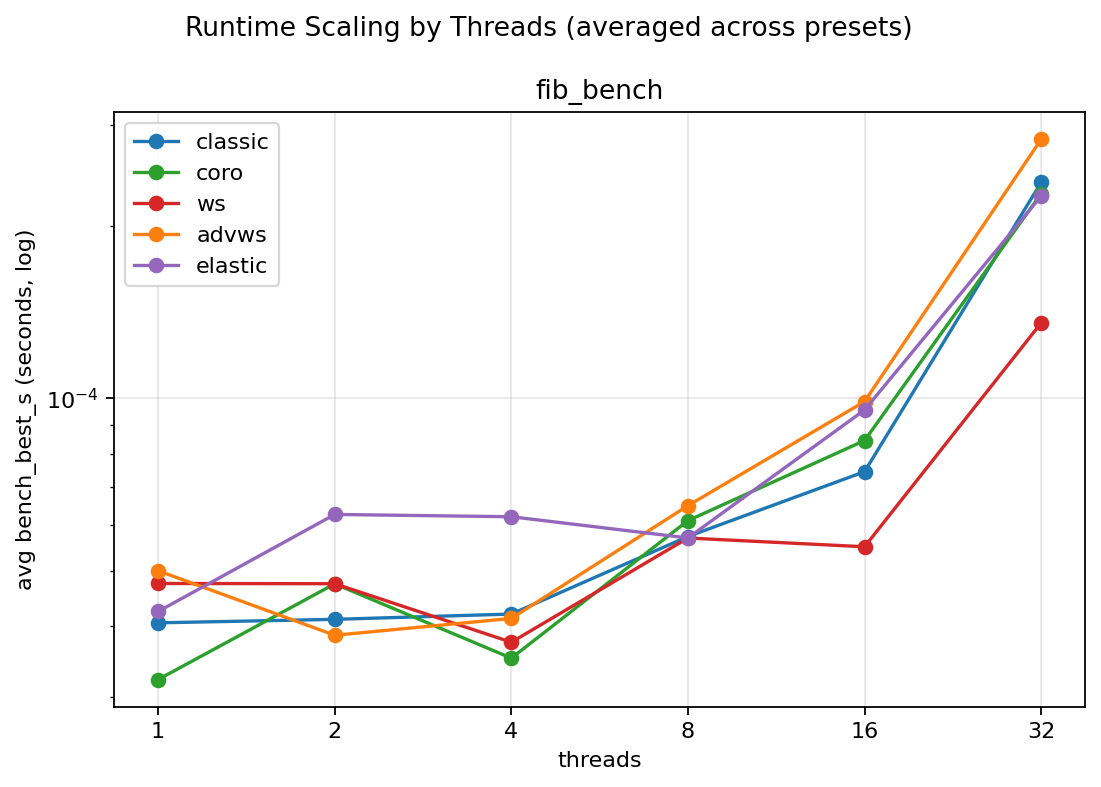
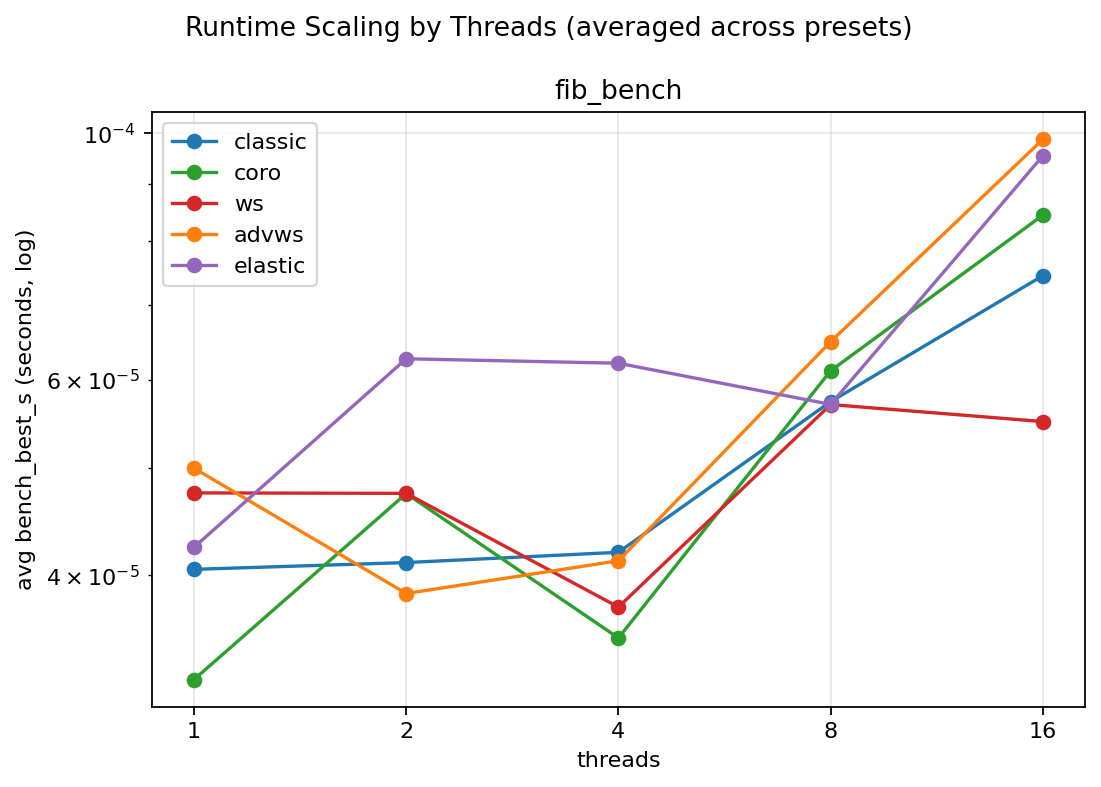
removed 32 threads

diff --git a/results/fib_perf_20260303_000544/analysis_report.md b/results/fib_perf_20260303_000544/analysis_report.md
@@ -1,26 +1,19 @@
 # Fib Summary Analysis
 
 
-Source: `results\fib_perf_20260303_000544\summary.csv`
+Source: `results\fib_perf_20260303_000544\summary_no32.csv`
 
-Rows: 270; valid rows (bench_best_s>0): 269; scenarios: 54
-
-
-## Invalid/zero timing rows
-
-| bench | preset | mode | threads | bench_best_s |
-|---|---|---|---|---|
-| fib_bench | fb_heavy | ws | 32 |  |
+Rows: 225; valid rows (bench_best_s>0): 225; scenarios: 45
 
 
 ## Scenario Winners (best runtime count)
 
 | mode | wins |
 |---|---|
-| classic | 14 |
-| coro | 13 |
-| advws | 12 |
-| ws | 11 |
+| coro | 11 |
+| advws | 11 |
+| classic | 10 |
+| ws | 9 |
 | elastic | 4 |
 
 
@@ -28,48 +21,48 @@ Rows: 270; valid rows (bench_best_s>0): 269; scenarios: 54
 
 | mode | avg_norm_runtime |
 |---|---|
-| ws | 1.494 |
-| coro | 1.542 |
-| advws | 1.557 |
-| classic | 1.617 |
-| elastic | 1.850 |
+| ws | 1.512 |
+| advws | 1.527 |
+| coro | 1.541 |
+| classic | 1.666 |
+| elastic | 1.914 |
 
 
 ## Geometric Mean Speedup vs Classic (>1 faster)
 
 | mode | speedup_vs_classic |
 |---|---|
-| advws | 1.002x |
-| coro | 1.012x |
-| elastic | 0.861x |
-| ws | 1.048x |
+| advws | 1.043x |
+| coro | 1.042x |
+| elastic | 0.862x |
+| ws | 1.064x |
 
 
 ## Coroutine Speedup vs Classic by Benchmark Family
 
 | family | coro_speedup_vs_classic | n_scenarios |
 |---|---|---|
-| fib_bench | 1.041x | 18 |
-| fib_fast_bench | 1.101x | 18 |
-| fib_single_bench | 0.905x | 18 |
+| fib_bench | 1.019x | 15 |
+| fib_fast_bench | 1.152x | 15 |
+| fib_single_bench | 0.964x | 15 |
 
 
 ## Coroutine Speedup vs Classic by Preset Level
 
 | level | coro_speedup_vs_classic | n_scenarios |
 |---|---|---|
-| light | 0.971x | 18 |
-| mid | 1.076x | 18 |
-| heavy | 0.993x | 18 |
+| light | 1.040x | 15 |
+| mid | 1.053x | 15 |
+| heavy | 1.033x | 15 |
 
 
 ## Best Mode by Benchmark and Thread (avg over presets)
 
-| bench | t1 | t2 | t4 | t8 | t16 | t32 |
-|---|---|---|---|---|---|---|
-| fib_bench | coro | advws | coro | ws | ws | ws |
-| fib_fast_bench | classic | coro | advws | advws | ws | classic |
-| fib_single_bench | coro | coro | advws | classic | classic | classic |
+| bench | t1 | t2 | t4 | t8 | t16 |
+|---|---|---|---|---|---|
+| fib_bench | coro | advws | coro | ws | ws |
+| fib_fast_bench | classic | coro | advws | advws | ws |
+| fib_single_bench | coro | coro | advws | classic | classic |
 
 
 ## Winner Counts by Thread
@@ -81,4 +74,3 @@ Rows: 270; valid rows (bench_best_s>0): 269; scenarios: 54
 | t4 | 9 | ws:3, classic:2, advws:2, coro:1, elastic:1 |
 | t8 | 9 | coro:3, classic:2, ws:2, advws:2 |
 | t16 | 9 | ws:4, classic:2, coro:1, elastic:1, advws:1 |
-| t32 | 9 | classic:4, ws:2, coro:2, advws:1 |
